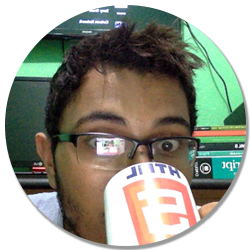
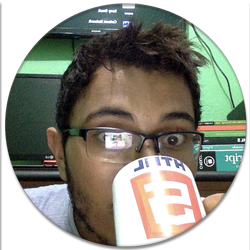
Retina support added

diff --git a/prod/index.html b/prod/index.html
@@ -1,4 +1,4 @@
-<!DOCTYPE html><html lang="pt-br"><head><meta name="viewport" content="width=device-width, minimum-scale=1.0, maximum-scale=1.0"><meta charset="utf-8"><meta name="keywords" content="Afonso Pacifer, Front-End, HTML5, CSS, CSS3, Javascript"><meta name="description" content="Afonso Pacifer, um Desenvolvedor Front-End apaixonado pela Web"><!--[if IE]><link rel="shortcut icon" href="favicon.ico"><![endif]--><link rel="icon" href="assets/img/icons/favicon-16.png" sizes="16x16"><link rel="icon" href="assets/img/icons/favicon-32.png" sizes="32x32"><link rel="apple-touch-icon" href="assets/img/icons/apple-touch-icon-144x144.png" sizes="144x144"><link rel="apple-touch-icon" href="assets/img/icons/apple-touch-icon-114x114.png" sizes="114x114"><link rel="apple-touch-icon" href="assets/img/icons/apple-touch-icon-72x72.png" sizes="72x72"><link rel="apple-touch-icon" href="assets/img/icons/apple-touch-icon.png"><link rel="stylesheet" href="assets/styles/style.min.css"><link href="http://fonts.googleapis.com/css?family=Open+Sans:400,250,700" rel="stylesheet" type="text/css"><!--Twitte Card--><meta name="twitter:card" content="summary"><meta name="twitter:site" content="@afonsopacifer"><meta name="twitter:title" content="Afonso Pacifer"><meta name="twitter:description" content="Um Desenvolvedor Front-End apaixonado pela Web"><meta name="twitter:image" content="http://afonsopacifer.com.br/assets/img/afonso-pacifer.png"><!--Open Graph--><meta property="og:title" content="Afonso Pacifer - Front-End Dev"><meta property="og:type" content="website"><meta property="og:url" content="http://afonsopacifer.com.br/"><meta property="og:image" content="http://afonsopacifer.com.br/assets/img/afonso-pacifer.png"><title>Afonso Pacifer - Um Desenvolvedor Front-End apaixonado pela Web</title></head><body><div class="top-bar"></div><main class="container"><img src="assets/img/afonso-pacifer.png" alt="Afonso Pacifer - Front-End Developer" class="photo"><div class="about"><p class="featured-text">Olá, meu nome é <strong>Afonso Pacifer</strong>
+<!DOCTYPE html><html lang="pt-br"><head><meta name="viewport" content="width=device-width, minimum-scale=1.0, maximum-scale=1.0"><meta charset="utf-8"><meta name="keywords" content="Afonso Pacifer, Front-End, HTML5, CSS, CSS3, Javascript"><meta name="description" content="Afonso Pacifer, um Desenvolvedor Front-End apaixonado pela Web"><!--[if IE]><link rel="shortcut icon" href="favicon.ico"><![endif]--><link rel="icon" href="assets/img/icons/favicon-16.png" sizes="16x16"><link rel="icon" href="assets/img/icons/favicon-32.png" sizes="32x32"><link rel="apple-touch-icon" href="assets/img/icons/apple-touch-icon-144x144.png" sizes="144x144"><link rel="apple-touch-icon" href="assets/img/icons/apple-touch-icon-114x114.png" sizes="114x114"><link rel="apple-touch-icon" href="assets/img/icons/apple-touch-icon-72x72.png" sizes="72x72"><link rel="apple-touch-icon" href="assets/img/icons/apple-touch-icon.png"><link rel="stylesheet" href="assets/styles/style.min.css"><link href="http://fonts.googleapis.com/css?family=Open+Sans:400,250,700" rel="stylesheet" type="text/css"><!--Twitte Card--><meta name="twitter:card" content="summary"><meta name="twitter:site" content="@afonsopacifer"><meta name="twitter:title" content="Afonso Pacifer"><meta name="twitter:description" content="Um Desenvolvedor Front-End apaixonado pela Web"><meta name="twitter:image" content="http://afonsopacifer.com.br/assets/img/afonso-pacifer.png"><!--Open Graph--><meta property="og:title" content="Afonso Pacifer - Front-End Dev"><meta property="og:type" content="website"><meta property="og:url" content="http://afonsopacifer.com.br/"><meta property="og:image" content="http://afonsopacifer.com.br/assets/img/afonso-pacifer.png"><title>Afonso Pacifer - Um Desenvolvedor Front-End apaixonado pela Web</title></head><body><div class="top-bar"></div><main class="container"><img src="assets/img/afonso-pacifer.png" srcset="assets/img/afonso-pacifer.png 1x, assets/img/afonso-pacifer@2x.png 2x" alt="Afonso Pacifer - Front-End Developer" class="photo"><div class="about"><p class="featured-text">Olá, meu nome é <strong>Afonso Pacifer</strong>
 tenho 23 anos e sou um <strong>Desenvolvedor Front-End</strong>
 apaixonado pela web e suas infinitas possibilidades.  </p><p class="featured-text">Sou entusiasta de novas tecnologias como os 	
 <a href="https://developer.mozilla.org/en-US/Apps/Quickstart/Build/Intro_to_open_web_apps" target="_blank">
